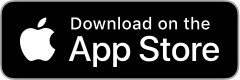
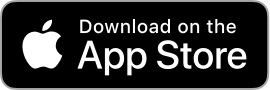
Fix button image dimensions

diff --git a/stylesheets/stylesheet.css b/stylesheets/stylesheet.css
@@ -122,7 +122,7 @@ a:hover {
 
 .app-store-btn {
   width: 135px;
-  height: 40px;
+  height: 45px;
 }
 
 .graph {
